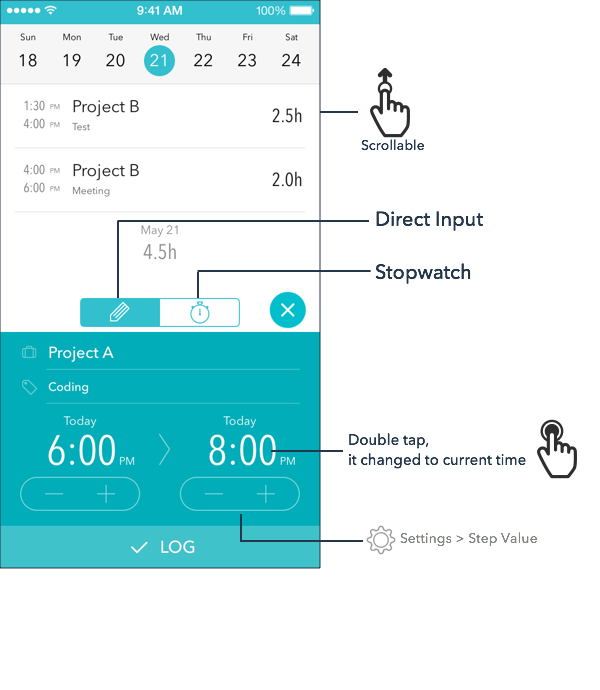
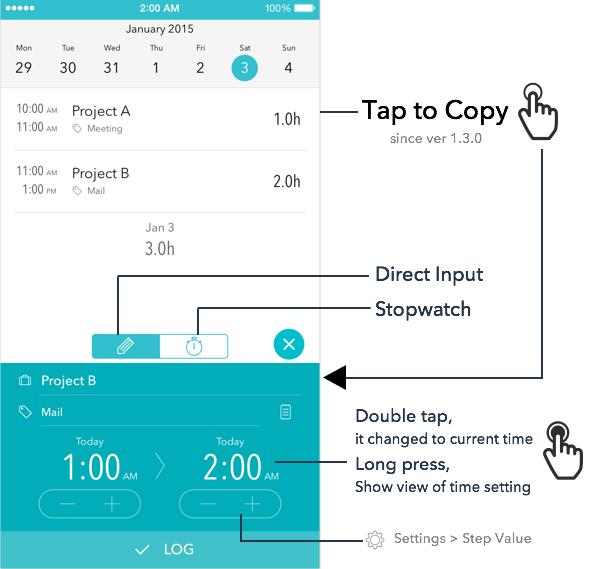
Timesheet v1.3.0用のヘルプ

diff --git a/ja/timesheet/help.html b/ja/timesheet/help.html
@@ -23,9 +23,10 @@
 	<div class="content">
 		<h1><i class="icon-smile"></i> Help</h1>
 		<h2>Tips</h2>
-		<p><img src="../../timesheet/img/help03.png" width="600" height="690" alt=""></p>
-		<p><img src="../../timesheet/img/help04.png" width="600" height="690" alt=""></p>
-		<h2>FAQ</h2>
+		<p><img src="../../timesheet/img/help03-jp.png" width="600" height="690" alt=""></p>
+		<p><img src="../../timesheet/img/help04-jp.png" width="600" height="569" alt=""></p>
+		<p><img src="../../timesheet/img/help05-jp.png" width="572" height="569" alt=""></p>
+		<h2>トラブルシューティング</h2>
 		<dl>
 			<dt>アプリを起動すると落ちる</dt>
 			<dd>
@@ -61,13 +62,33 @@
 			         この場合、iCloudをオフにしてみてください。
 			 </dd>
 			 <dd>こちらも参考にしてください。<a href="http://support.apple.com/kb/TS3999?viewlocale=ja_JP">iCloud：iCloud カレンダーのトラブルシューティング</a>
-			 
-			 <dt>カレンダーが消えてしまった</dt>
-			 <dd>カレンダーが、「カレンダー」アプリで表示できるか確認して下さい。<br />
+
+			<dt>カレンダーが消えてしまった</dt>
+			<dd>カレンダーが、「カレンダー」アプリで表示できるか確認して下さい。<br />
 			 iCloudカレンダーの場合、iClouldの設定でカレンダーが無効になっている可能性があります。<br />
 			 設定 > iCloud の カレンダー と、 設定 > メール/連絡先/カレンダー > iCloud のカレンダーの設定をONにし、「カレンダー」アプリでカレンダーが復元されたかを確認して下さい。
-			 </dd>
-			 
+			</dd>
+		</dl>
+		<h2>FAQ</h2>
+		<dl>
+			<dt>Macアプリはありますか？</dt>
+			<dd>ありません。<br />
+				ですが、Mac標準のカレンダーアプリなどを使って、Mac上で登録することが可能です。<br />
+				タグの情報は、メモ欄の1行目にカンマ区切りで入力します。<br />
+				メモの情報は、メモ欄の2行目以降に入力します。(メモはTimesheet ver1.3にて追加)
+			</dd>
+
+			<dt>バックアップする方法は？</dt>
+			<dd>
+				使用しているカレンダーのバックアップ機能をお使いください。<br />
+				<br />
+				iCloudカレンダーを使用している場合には、iCloudにデータが保存されています。<br />
+				そのため、アプリを削除してもデータは保存されています。<br />
+				さらにバックアップを行なうためには、Mac標準の「カレンダー」アプリを使うことで、ファイル書き出しが可能です。<br />
+				こちらを参考にしてください。 <a href="http://support.apple.com/ja-jp/HT2966">iCal カレンダーデータをバックアップする方法</a><br />
+				<br />
+				Googleカレンダーを使用している場合は、こちらを参考にしてください。 <a href="https://support.google.com/calendar/answer/37111?hl=ja">カレンダーをエクスポートする</a><br />
+			</dd>
 		</dl>
 	</div><!-- content -->
 </div><!-- container container-help -->

diff --git a/timesheet/help.html b/timesheet/help.html
@@ -24,8 +24,8 @@
 		<h1><i class="icon-smile"></i> Help</h1>
 		<h2>Tips</h2>
 		<p><img src="img/help03.png" width="600" height="690" alt=""></p>
-		<p><img src="img/help04.png" width="600" height="690" alt=""></p>
-
+		<p><img src="img/help04.png" width="600" height="569" alt=""></p>
+		<p><img src="img/help05.png" width="572" height="569" alt=""></p>
 		<h2>Troubleshooting</h2>
 		<dl>
 			<dt>Calendar has disappeared</dt>
@@ -35,7 +35,7 @@
 			<dd>When you were using the iCloud Calendar, <br />Confirm that you've turned on iCloud Calendar by tapping Settings > iCloud on your iPhone, then check that Calendars is turned on.
 			<br />
 			Please refer also <a href="http://support.apple.com/kb/TS3999">iCloud: Troubleshooting iCloud Calendar</a></dd>
-			
+
 			<dt>Data of a few months ago has disappeared</dt>
 			<dd>If you've been using the calendar of iCloud, you may be able to recover by changing the settings.</dd>
 			<dd>
@@ -45,7 +45,7 @@
 				<li>Open the "Calendar" app of iPhone, and wait for data to be synchronized.</li>
 			</ol>
 			</dd>
-			
+
 			<dt>When Timezone changed, Data of the day is no longer displayed</dt>
 			<dd>It might not work well if Time Zone Support is turned on.<br />
 		Configuration of Timezone support is located  in Settings > Mail,Contacts, Calendars.<br />
@@ -53,7 +53,27 @@
 			</dd>
 			<dd>
 		</dl>
+		<h2>FAQ</h2>
+		<dl>
+			<dt>Is there mac app?</dt>
+			<dd>No.<br />
+				But, using such as Mac standard calendar app, it is possible to register on Mac.<br />
+				You can enter "tag" a comma-separated in the first line of the memo field.<br />
+				You can enter "memo" in the second and subsequent lines of the memo field.(Memo added in Timesheet ver1.3)
+			</dd>
 
+			<dt>How do I back up?</dt>
+			<dd>
+				Please use the backup function of calendar.<br />
+				<br />
+				If you are using the iCloud calendar, data on iCloud has been saved.<br />
+				Therefore, if you delete the app, data is stored.<br />
+				To further perform a backup, it is possible to use the standard Mac "Calendar" app, it can be a export as file.<br />
+				Please refer <a href="http://support.apple.com/en-us/HT201816">How to back up iCal calendar data</a><br />
+				<br />
+				If you are using Google Calendar, please click here to reference. <a href="https://support.google.com/calendar/answer/37111?hl=en">Export your calendar</a><br />
+			</dd>
+		</dl>
 	</div><!-- content -->
 </div><!-- container container-help -->
 
